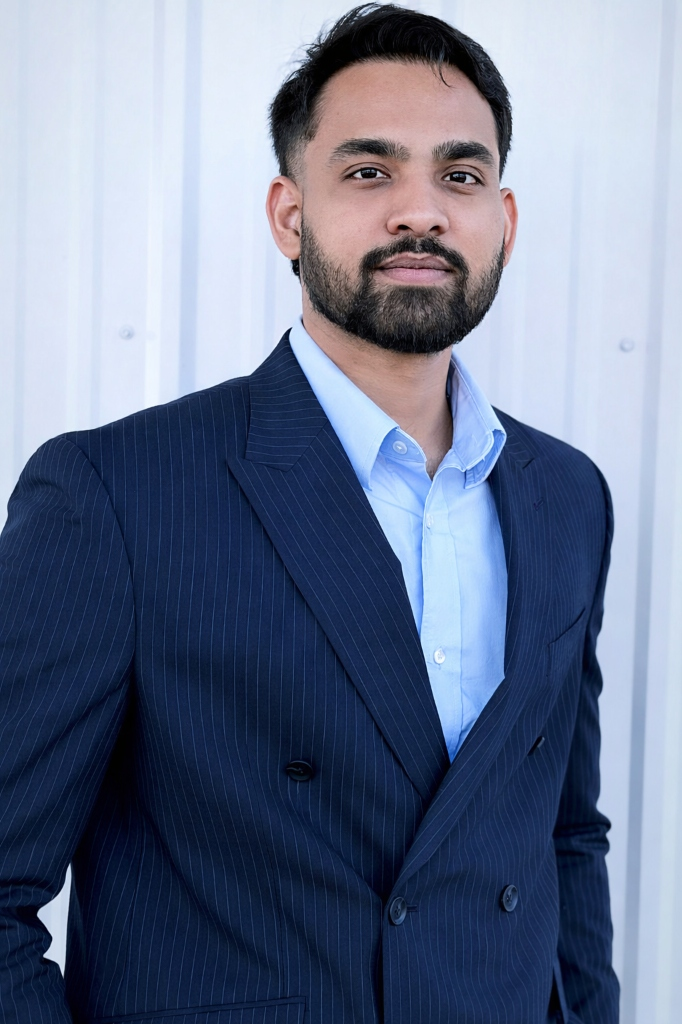
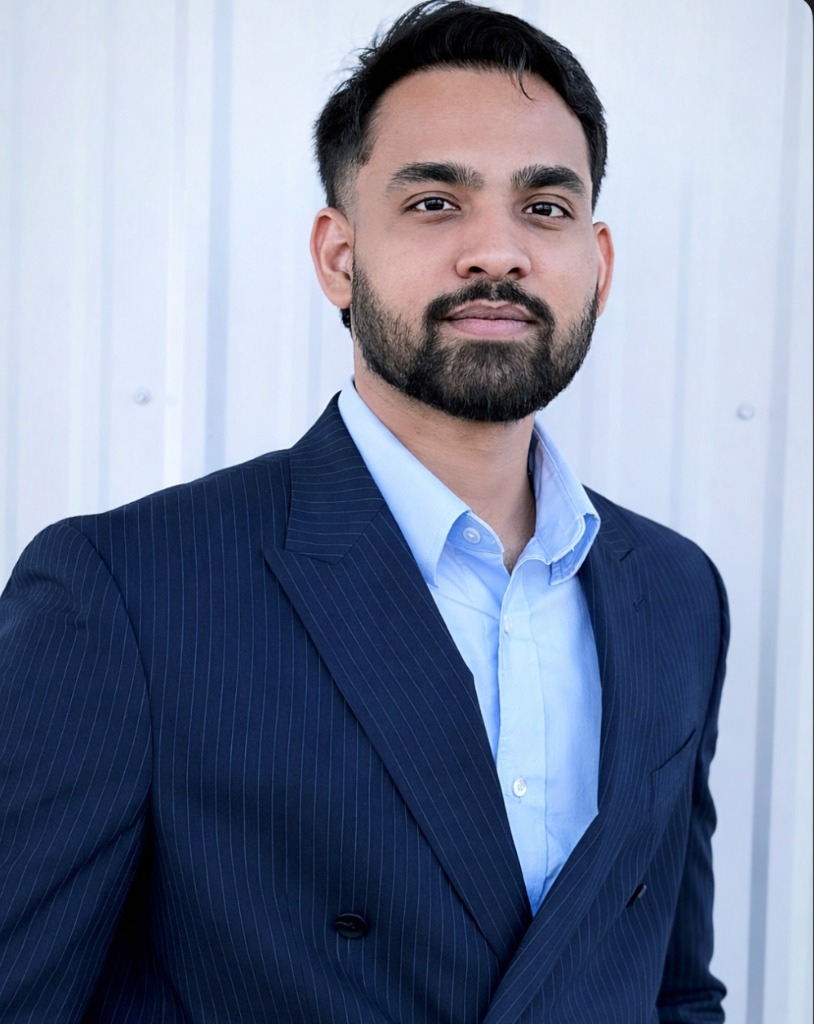
second commit

diff --git a/style.css b/style.css
@@ -177,13 +177,13 @@ section { position: relative; z-index: 1; padding: 7rem 0; }
 }
 
 .hero-photo {
-  width: 140px; height: 140px; border-radius: 50%; margin: 0 auto 2rem;
+  width: 240px; border-radius: var(--radius); margin: 0 auto 2rem;
   overflow: hidden; position: relative;
   box-shadow: 0 0 0 3px rgba(124,106,255,0.3), 0 0 50px var(--accent-glow);
   animation: heroFloat 5s ease-in-out infinite;
 }
 
-.hero-photo img { width: 100%; height: 100%; object-fit: cover; display: block; }
+.hero-photo img { width: 100%; height: auto; display: block; }
 
 @keyframes heroFloat {
   0%, 100% { transform: translateY(0); }
